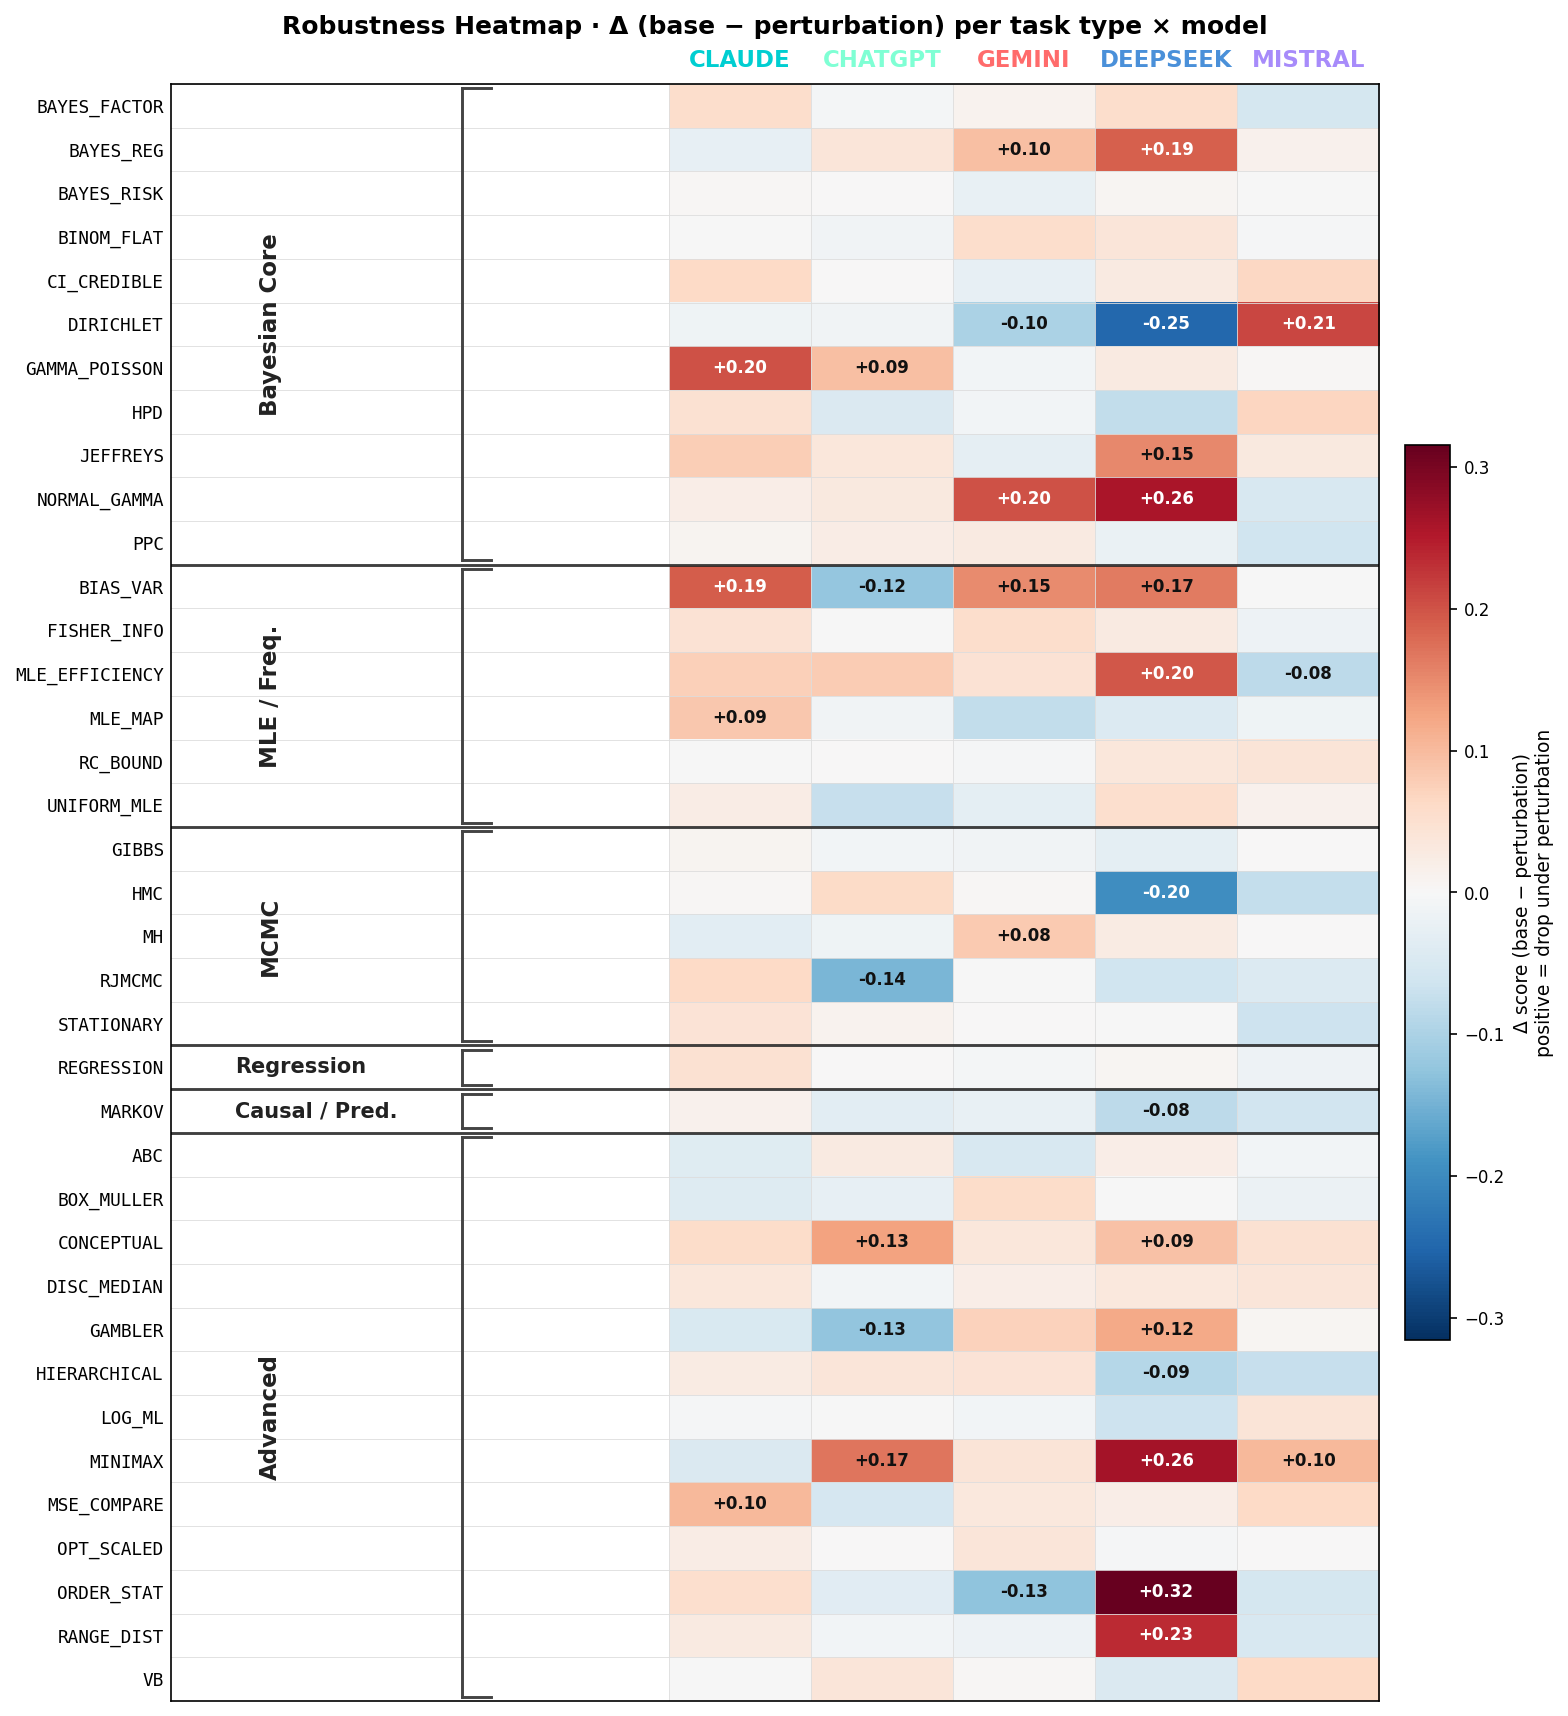
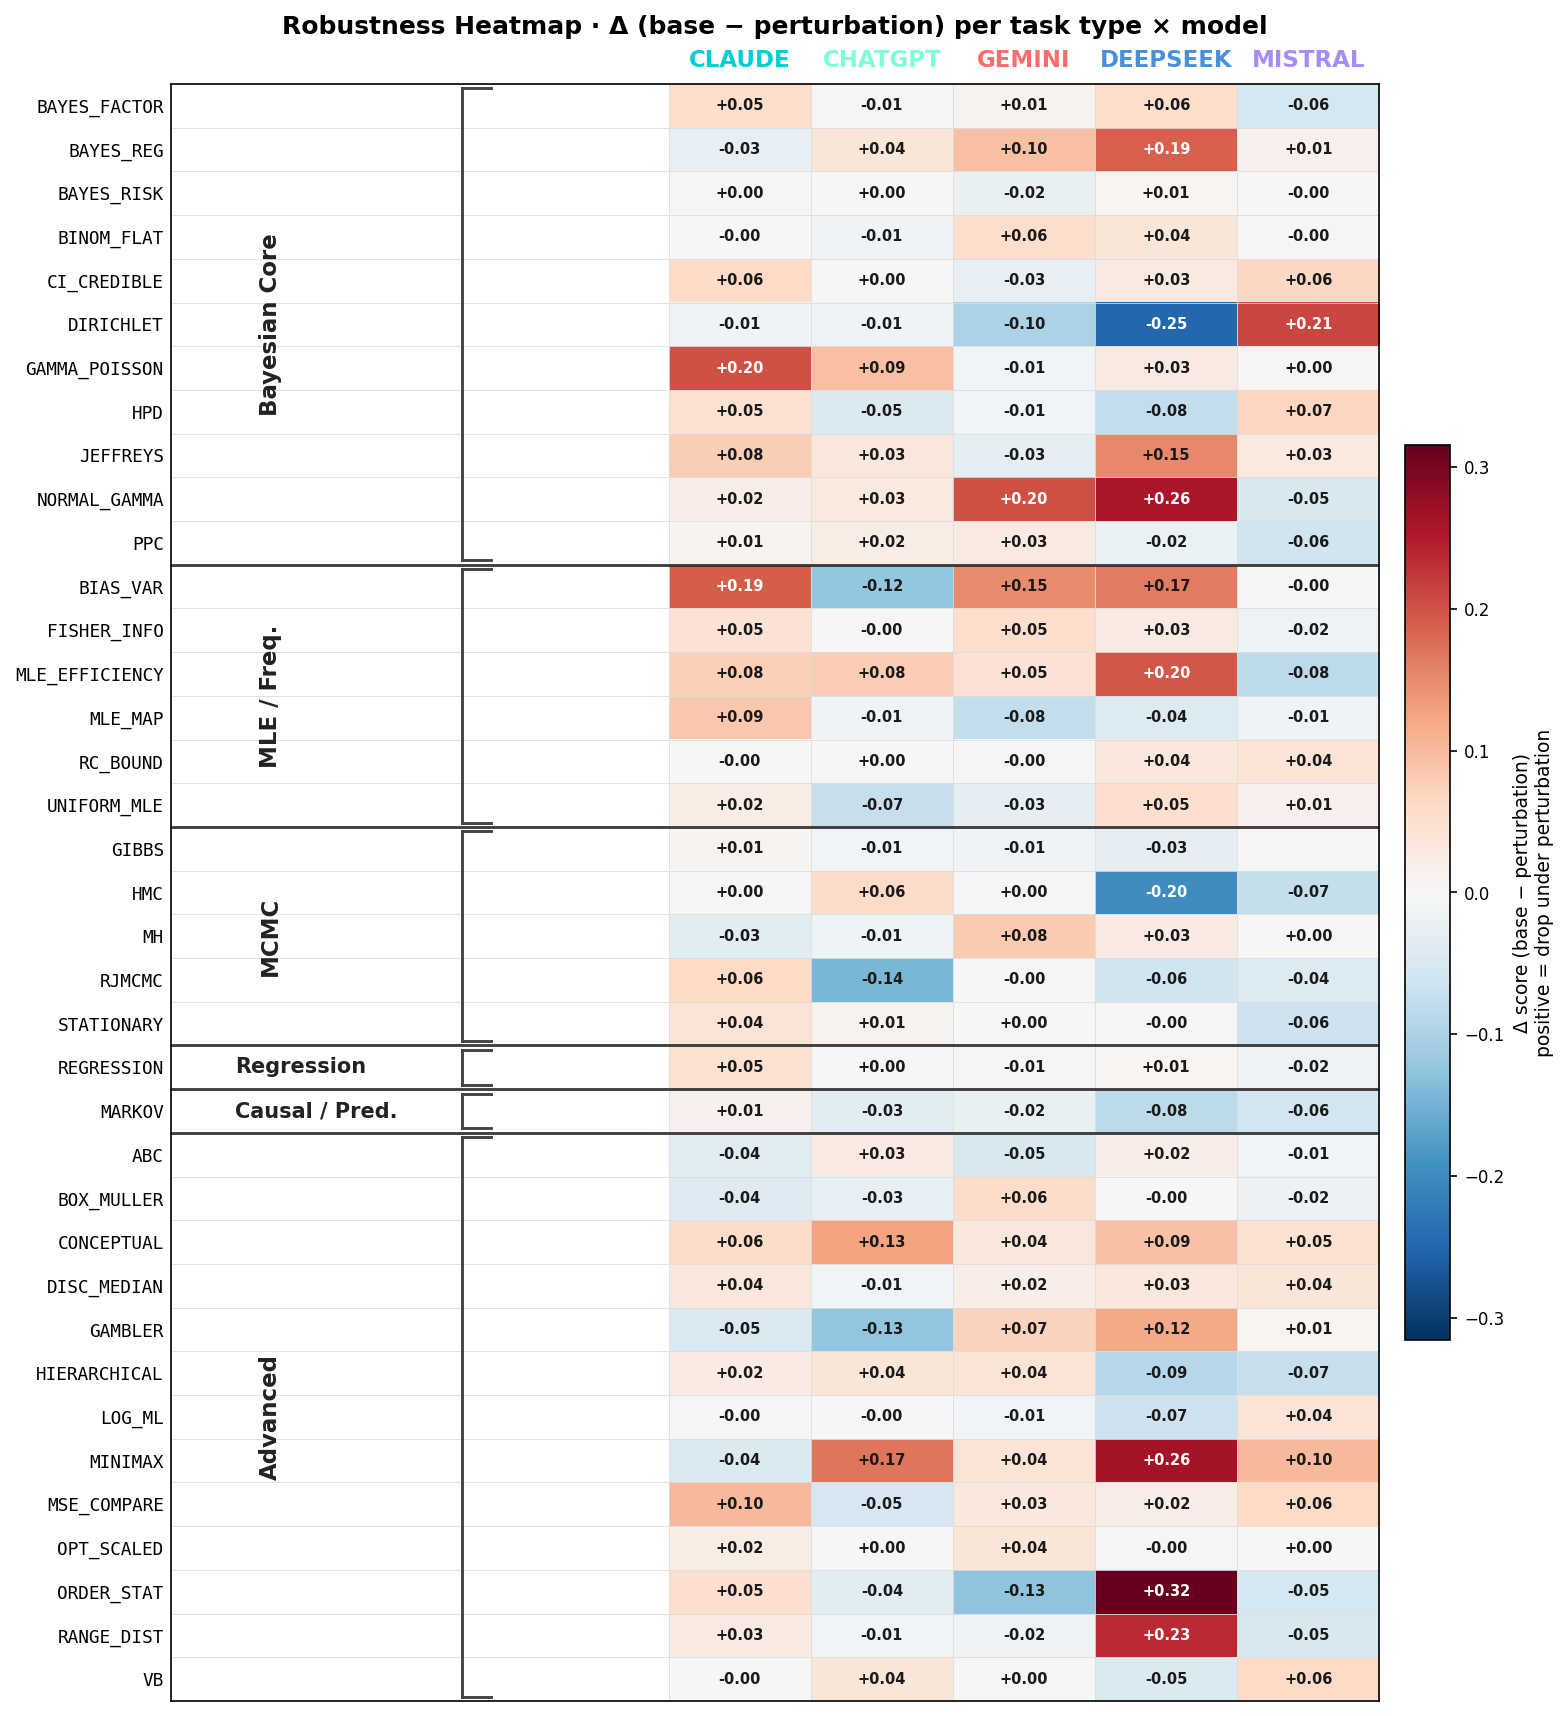
Robustness heatmap: restore cell labels at all magnitudes — significance threshold (|Δ| ≥ 0.08) removed; every non-zero cell now shows its Δ value; fontsize 8 → 7 to accommodate small-magnitude labels (+0.01, -0.02 etc.) within cell boundaries; color contrast threshold raised to 0.18 for white text;

diff --git a/scripts/robustness_analysis.py b/scripts/robustness_analysis.py
@@ -154,16 +154,17 @@ def plot_heatmap(heatmap, task_types, models):
     ax.set_yticks(range(len(ordered_types)))
     ax.set_yticklabels(ordered_types, fontsize=8.5, family="monospace")
 
-    SIGNIFICANCE_THRESHOLD = 0.08
     for i in range(len(ordered_types)):
         for j in range(len(models)):
             v = M[i, j]
             if np.isnan(v):
                 ax.text(j, i, "—", ha="center", va="center", fontsize=6, color="#888")
-            elif abs(v) >= SIGNIFICANCE_THRESHOLD:
-                txt_color = "#fff" if abs(v) > vmax * 0.55 else "#111"
-                ax.text(j, i, f"{v:+.2f}", ha="center", va="center",
-                        fontsize=8, color=txt_color, fontweight="bold")
+                continue
+            if v == 0:
+                continue
+            txt_color = "#fff" if abs(v) >= 0.18 else "#1a1a1a"
+            ax.text(j, i, f"{v:+.2f}", ha="center", va="center",
+                    fontsize=7, color=txt_color, fontweight="bold")
 
     # Horizontal dividers between category bands
     for _, _, end_row in cat_spans[:-1]:
